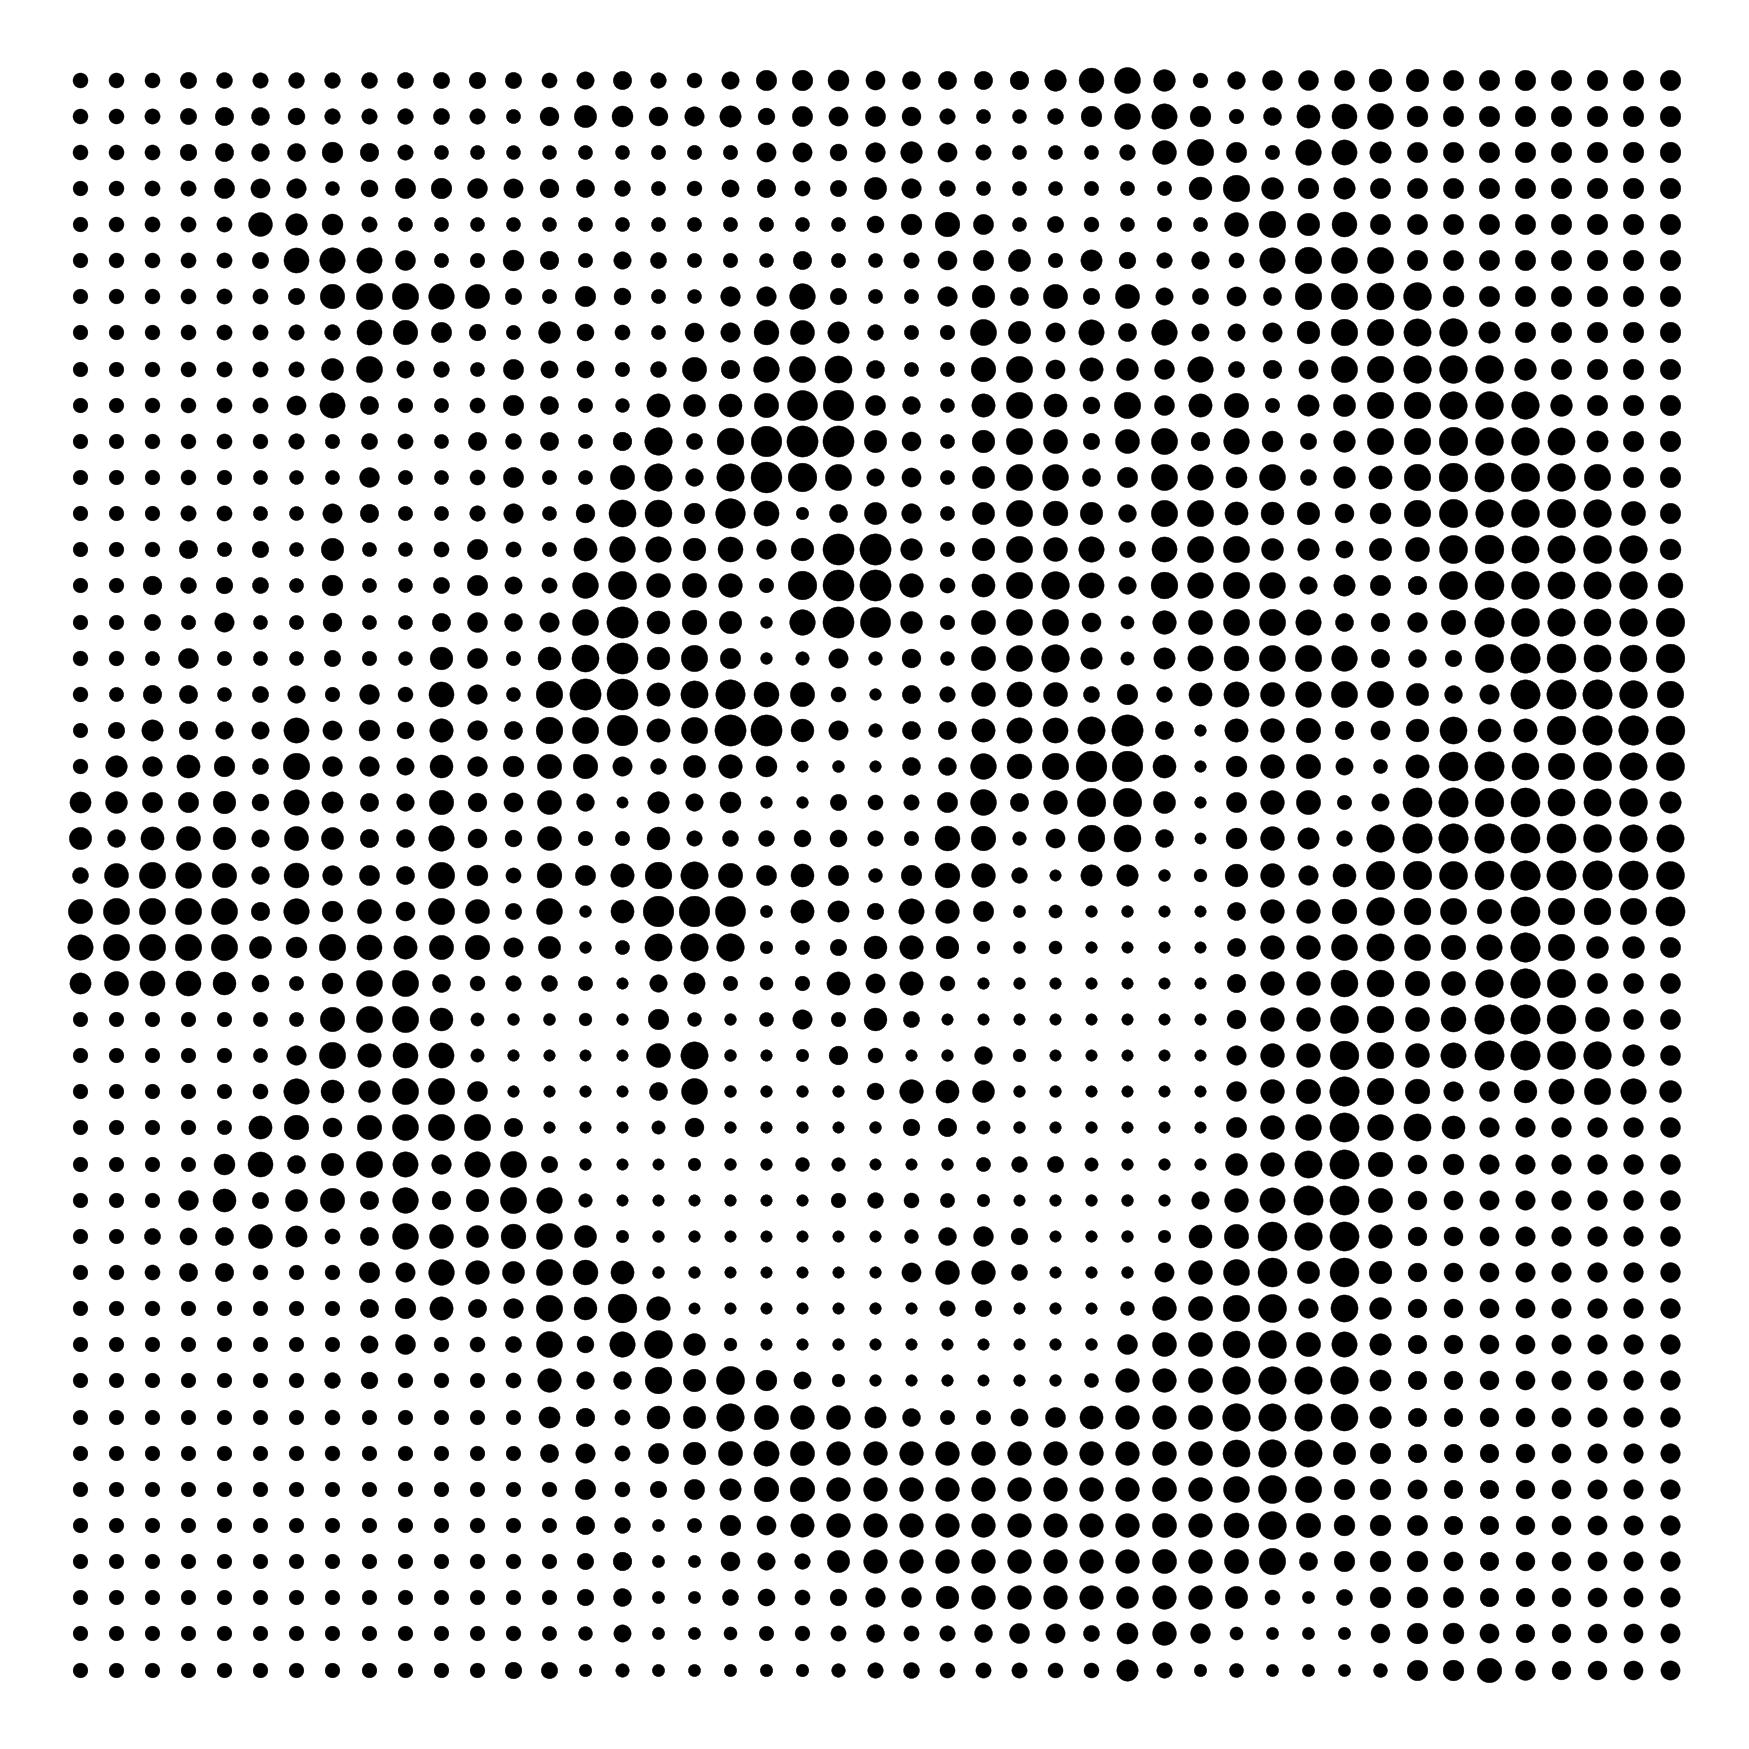
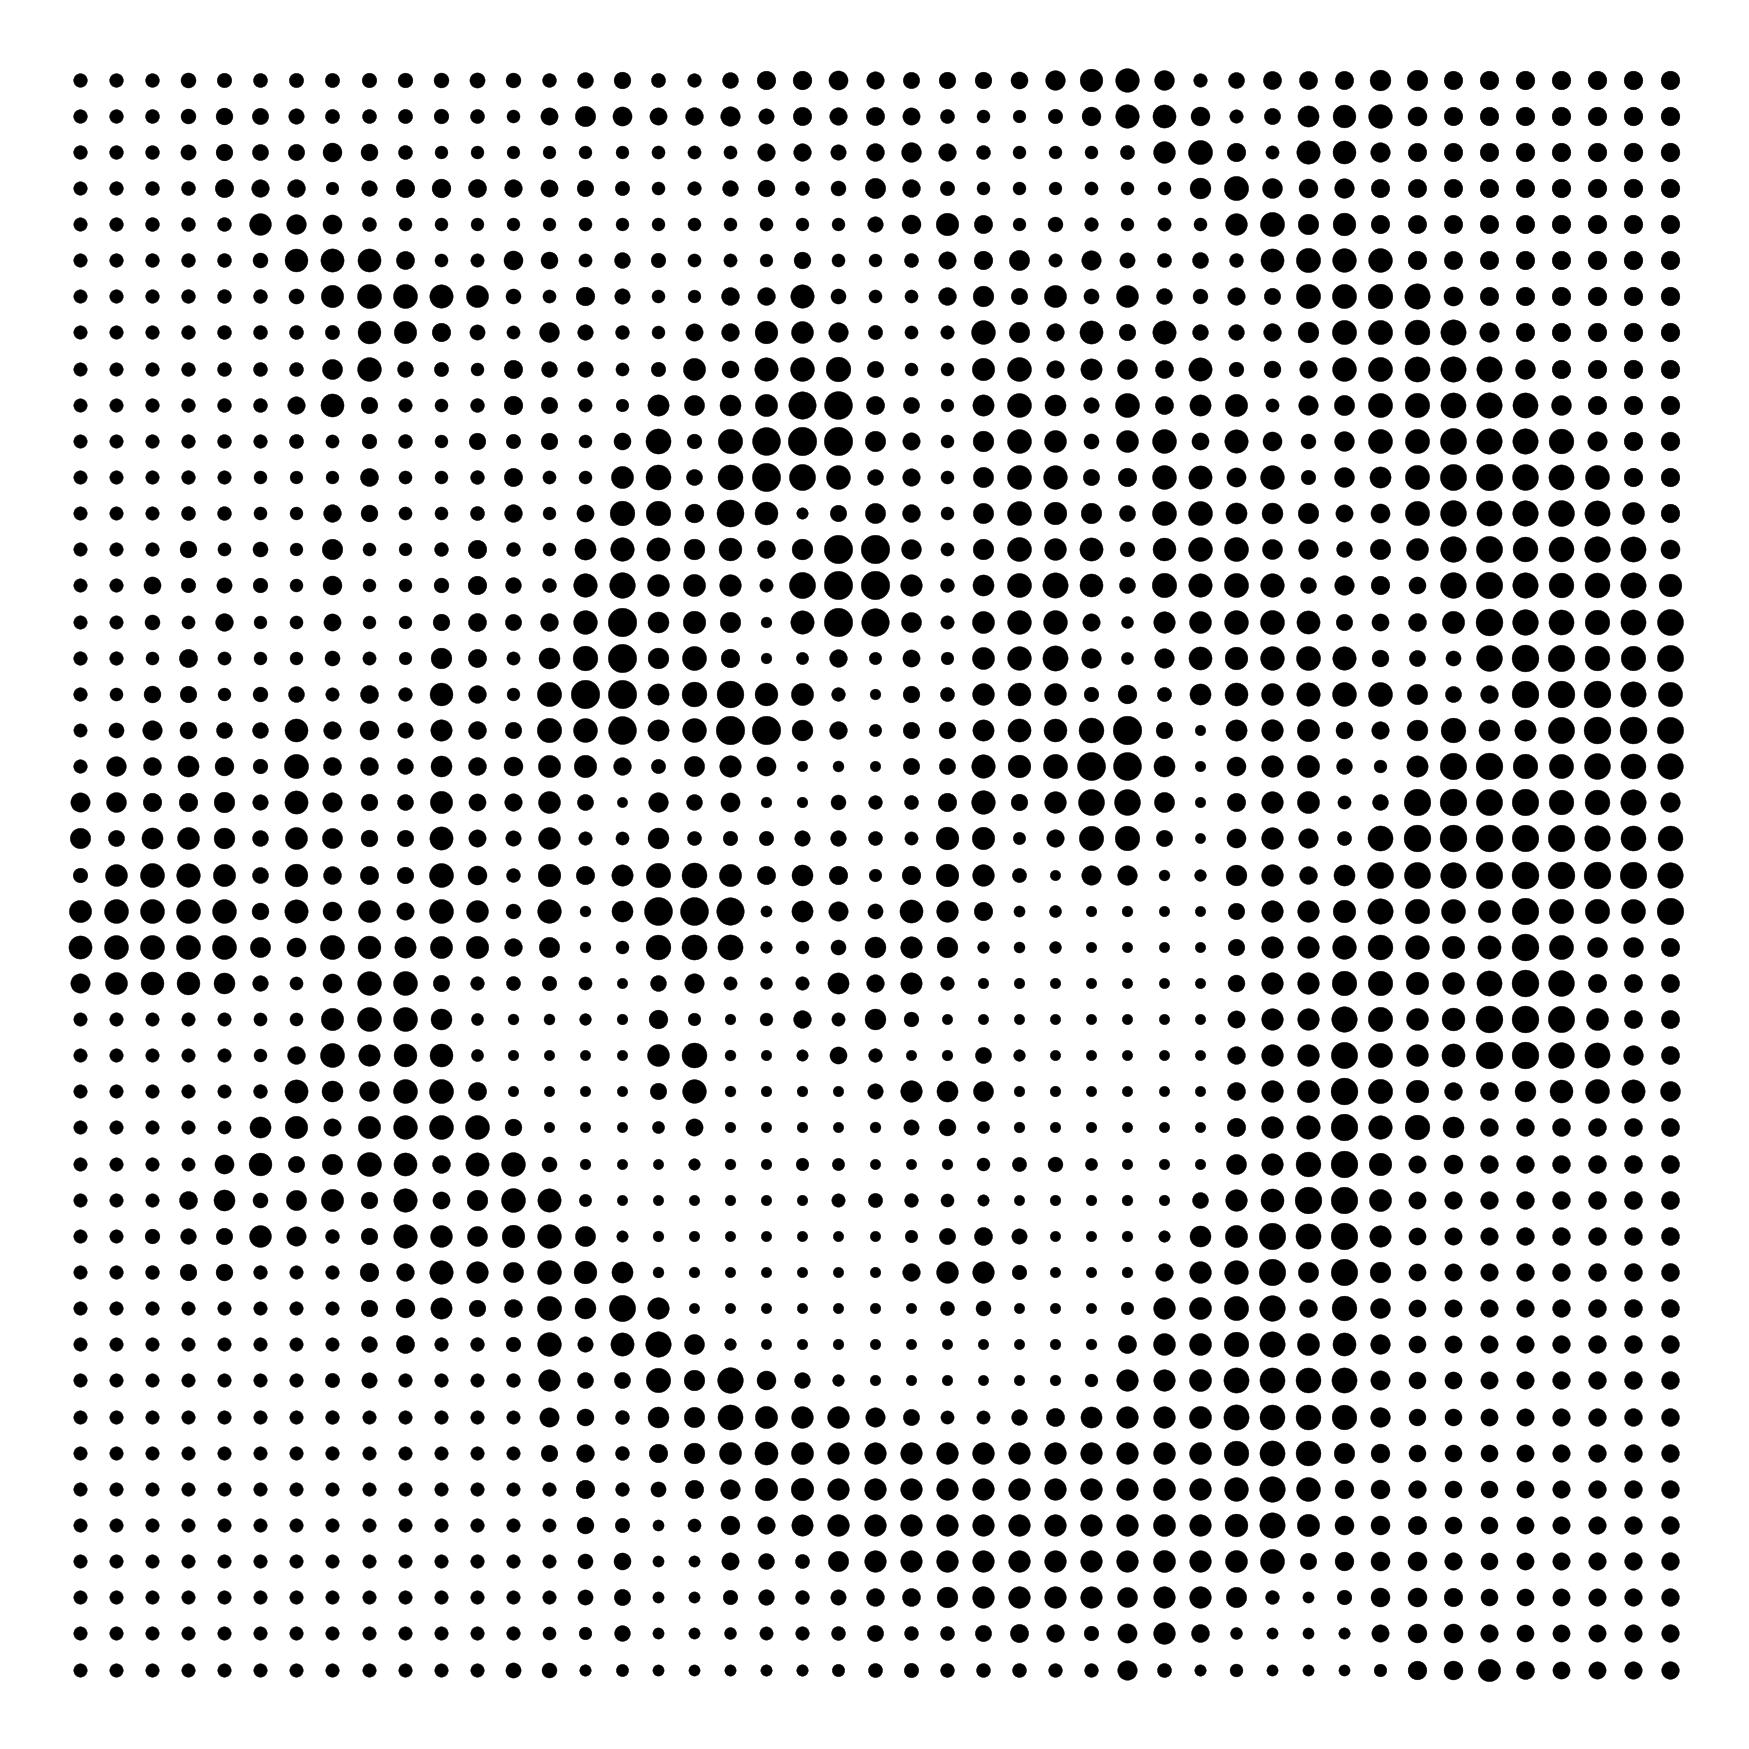
feat: add a treshold under which dots are not rendered

diff --git a/paint.py b/paint.py
@@ -6,7 +6,8 @@ from matplotlib.backends.backend_pdf import PdfPages
 REGION_SIZE = 5
 IMAGE_PATH = 'images/meliodas3.jpg'
 OUTPUT = 'JPG'  # 'PDF' or 'JPG'
-MAX_DOT_SIZE = REGION_SIZE * 12 # this value changes depending on the region size and the format of the image
+MAX_DOT_SIZE = REGION_SIZE * 10 # this value changes depending on the region size and the format of the image
+TRESHOLD_NO_DOT = MAX_DOT_SIZE / 10
 
 def load_image(image_path):
     """Load an image from a file path."""
@@ -53,6 +54,8 @@ def plot_and_save_varying_dots(dot_array, region_size, save_path, image_size, ho
     for i in range(dot_array.shape[0]):
         for j in range(dot_array.shape[1]):
             dot_size = (255 - dot_array[i, j]) / 255 * MAX_DOT_SIZE  # Invert brightness for dot size
+            if dot_size < TRESHOLD_NO_DOT:
+                continue
             if hollow:
                 ax.scatter(j * region_size + x_offset, i * region_size + y_offset, s=dot_size, edgecolors='black', facecolors='none', linewidth=edge_width)
             else:
@@ -89,7 +92,7 @@ if OUTPUT == 'PDF':
     filled_output_path = image_name.replace('.'+image_extension, '_filled_a5_centered.pdf')
     hollow_output_path = image_name.replace('.'+image_extension, '_hollow_a5_centered.pdf')
 elif OUTPUT == 'JPG':
-    filled_output_path = image_name.replace('.'+image_extension '_filled_a5_centered.jpg')
+    filled_output_path = image_name.replace('.'+image_extension, '_filled_a5_centered.jpg')
     hollow_output_path = image_name.replace('.'+image_extension, '_hollow_a5_centered.jpg')
 
 # Plot the dots with varying sizes and save the filled image

diff --git a/README.md b/README.md
@@ -89,6 +89,7 @@ REGION_SIZE = 5
 IMAGE_PATH = 'images/meliodas3.jpg'
 OUTPUT = 'JPG'  # 'PDF' or 'JPG'
 MAX_DOT_SIZE = REGION_SIZE * 12 # this value changes depending on the region size and the image format
+TRESHOLD_NO_DOT = MAX_DOT_SIZE / 10 # this value changes depending on the region size and the image format, and is used to determine if a region should be filled with dots or not
 ```
 
 * `IMAGE_PATH` refers to the relative path of the image to use. In this example, it is the `zuko3.png` image located in the `images` folder.
